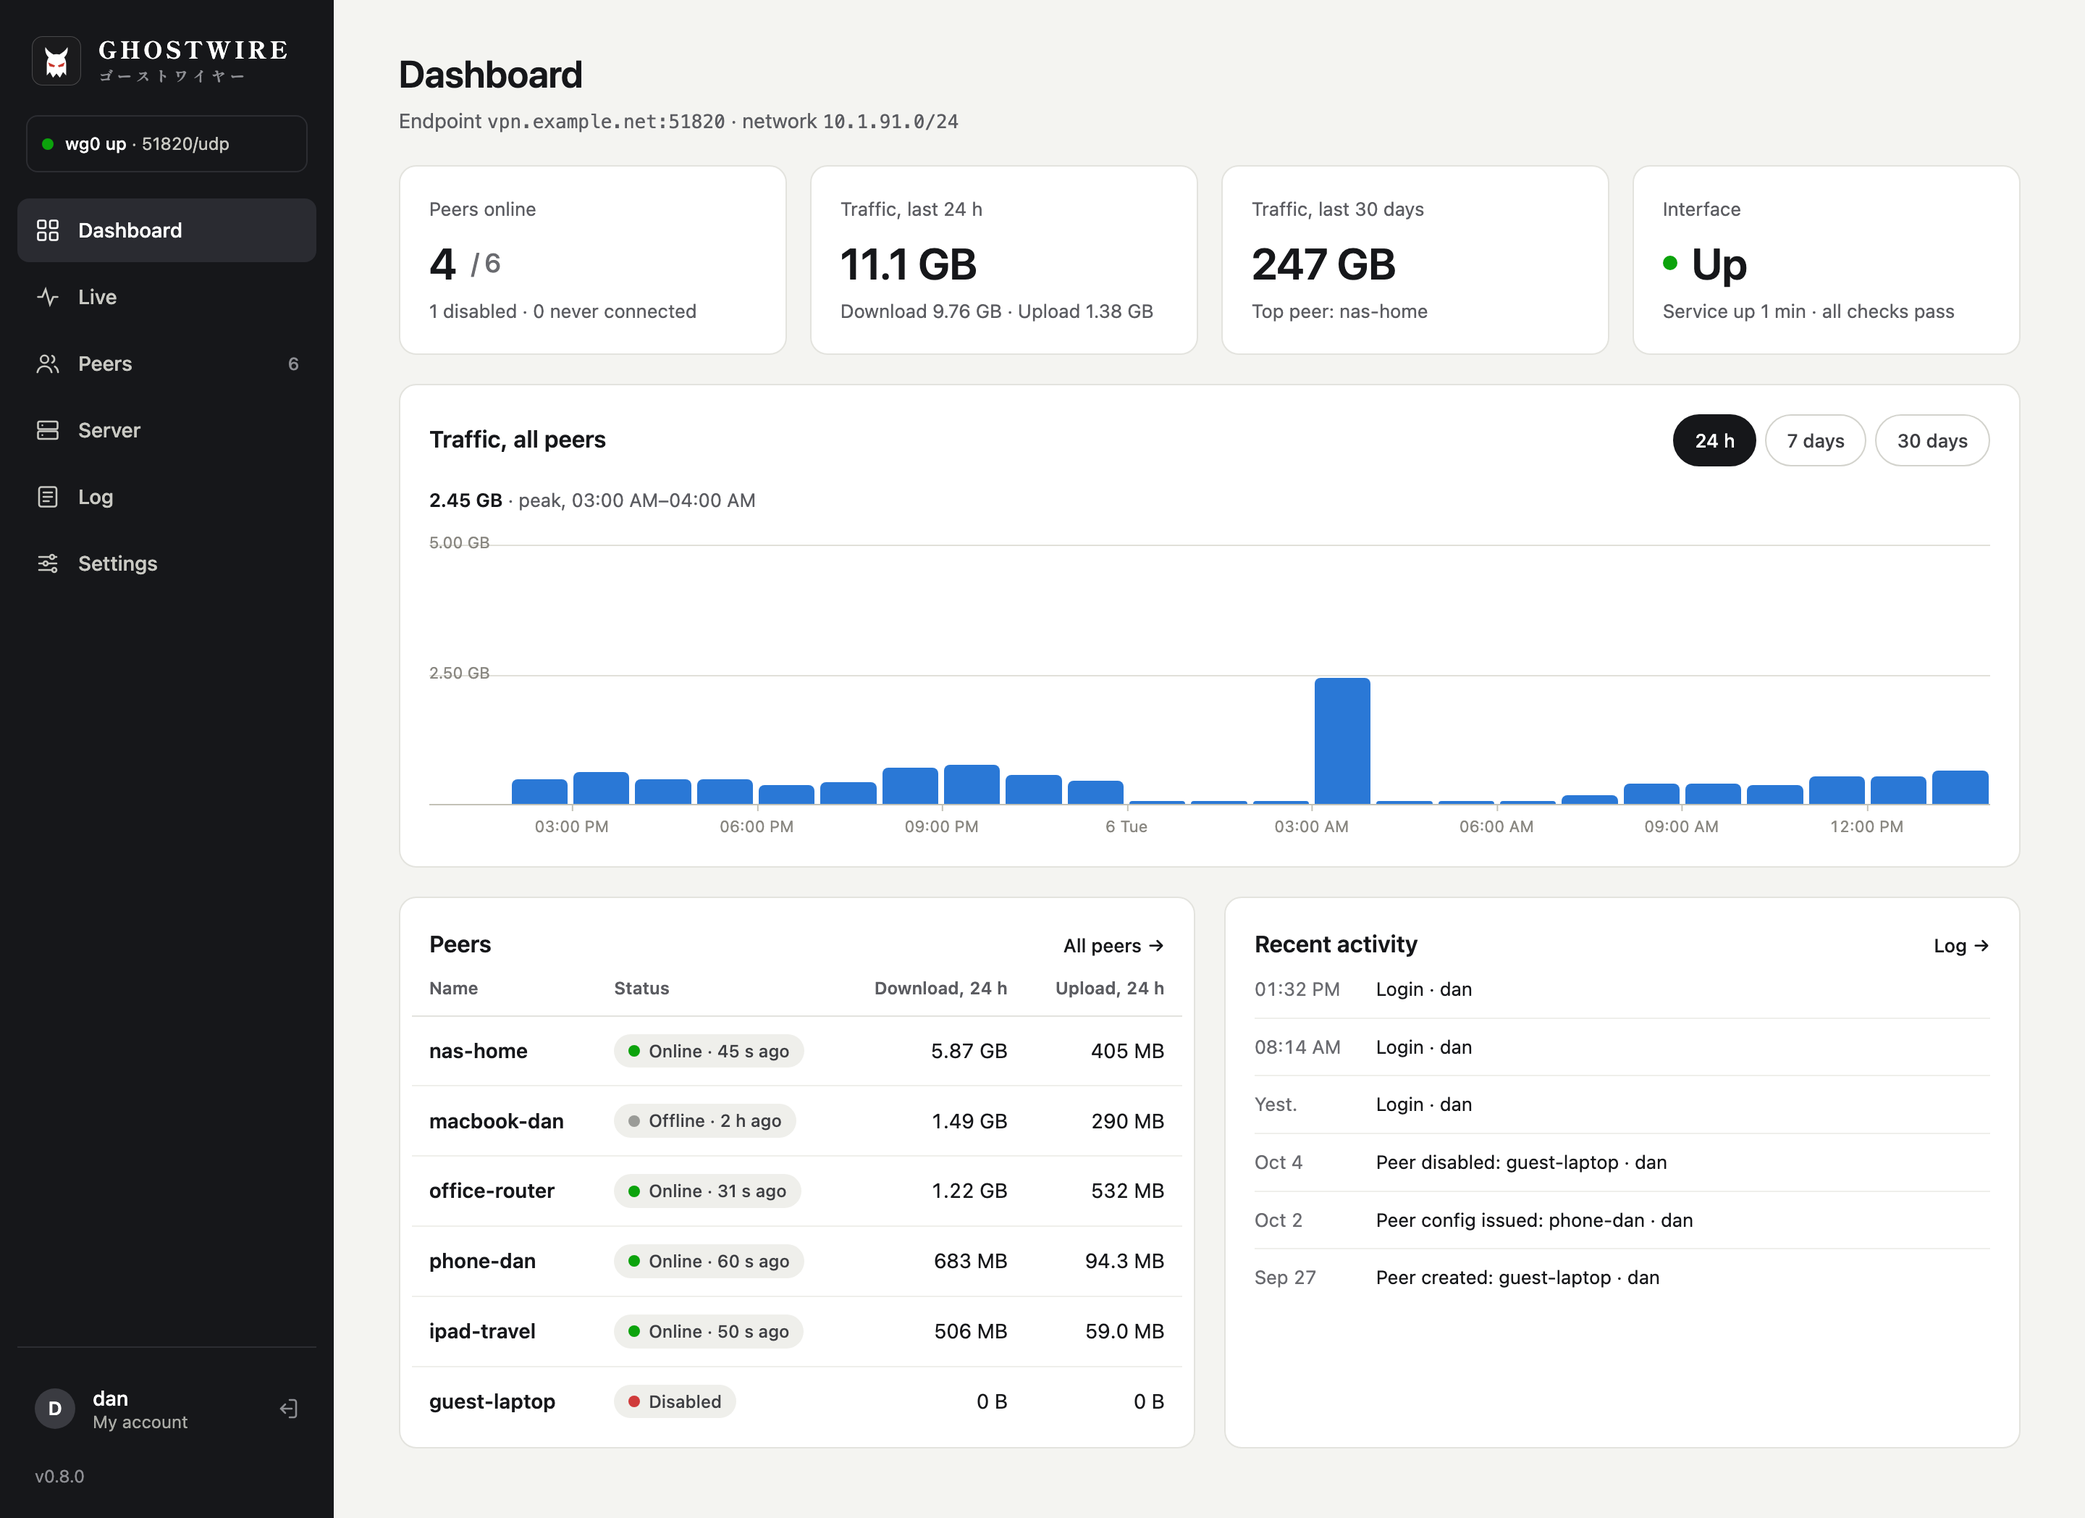
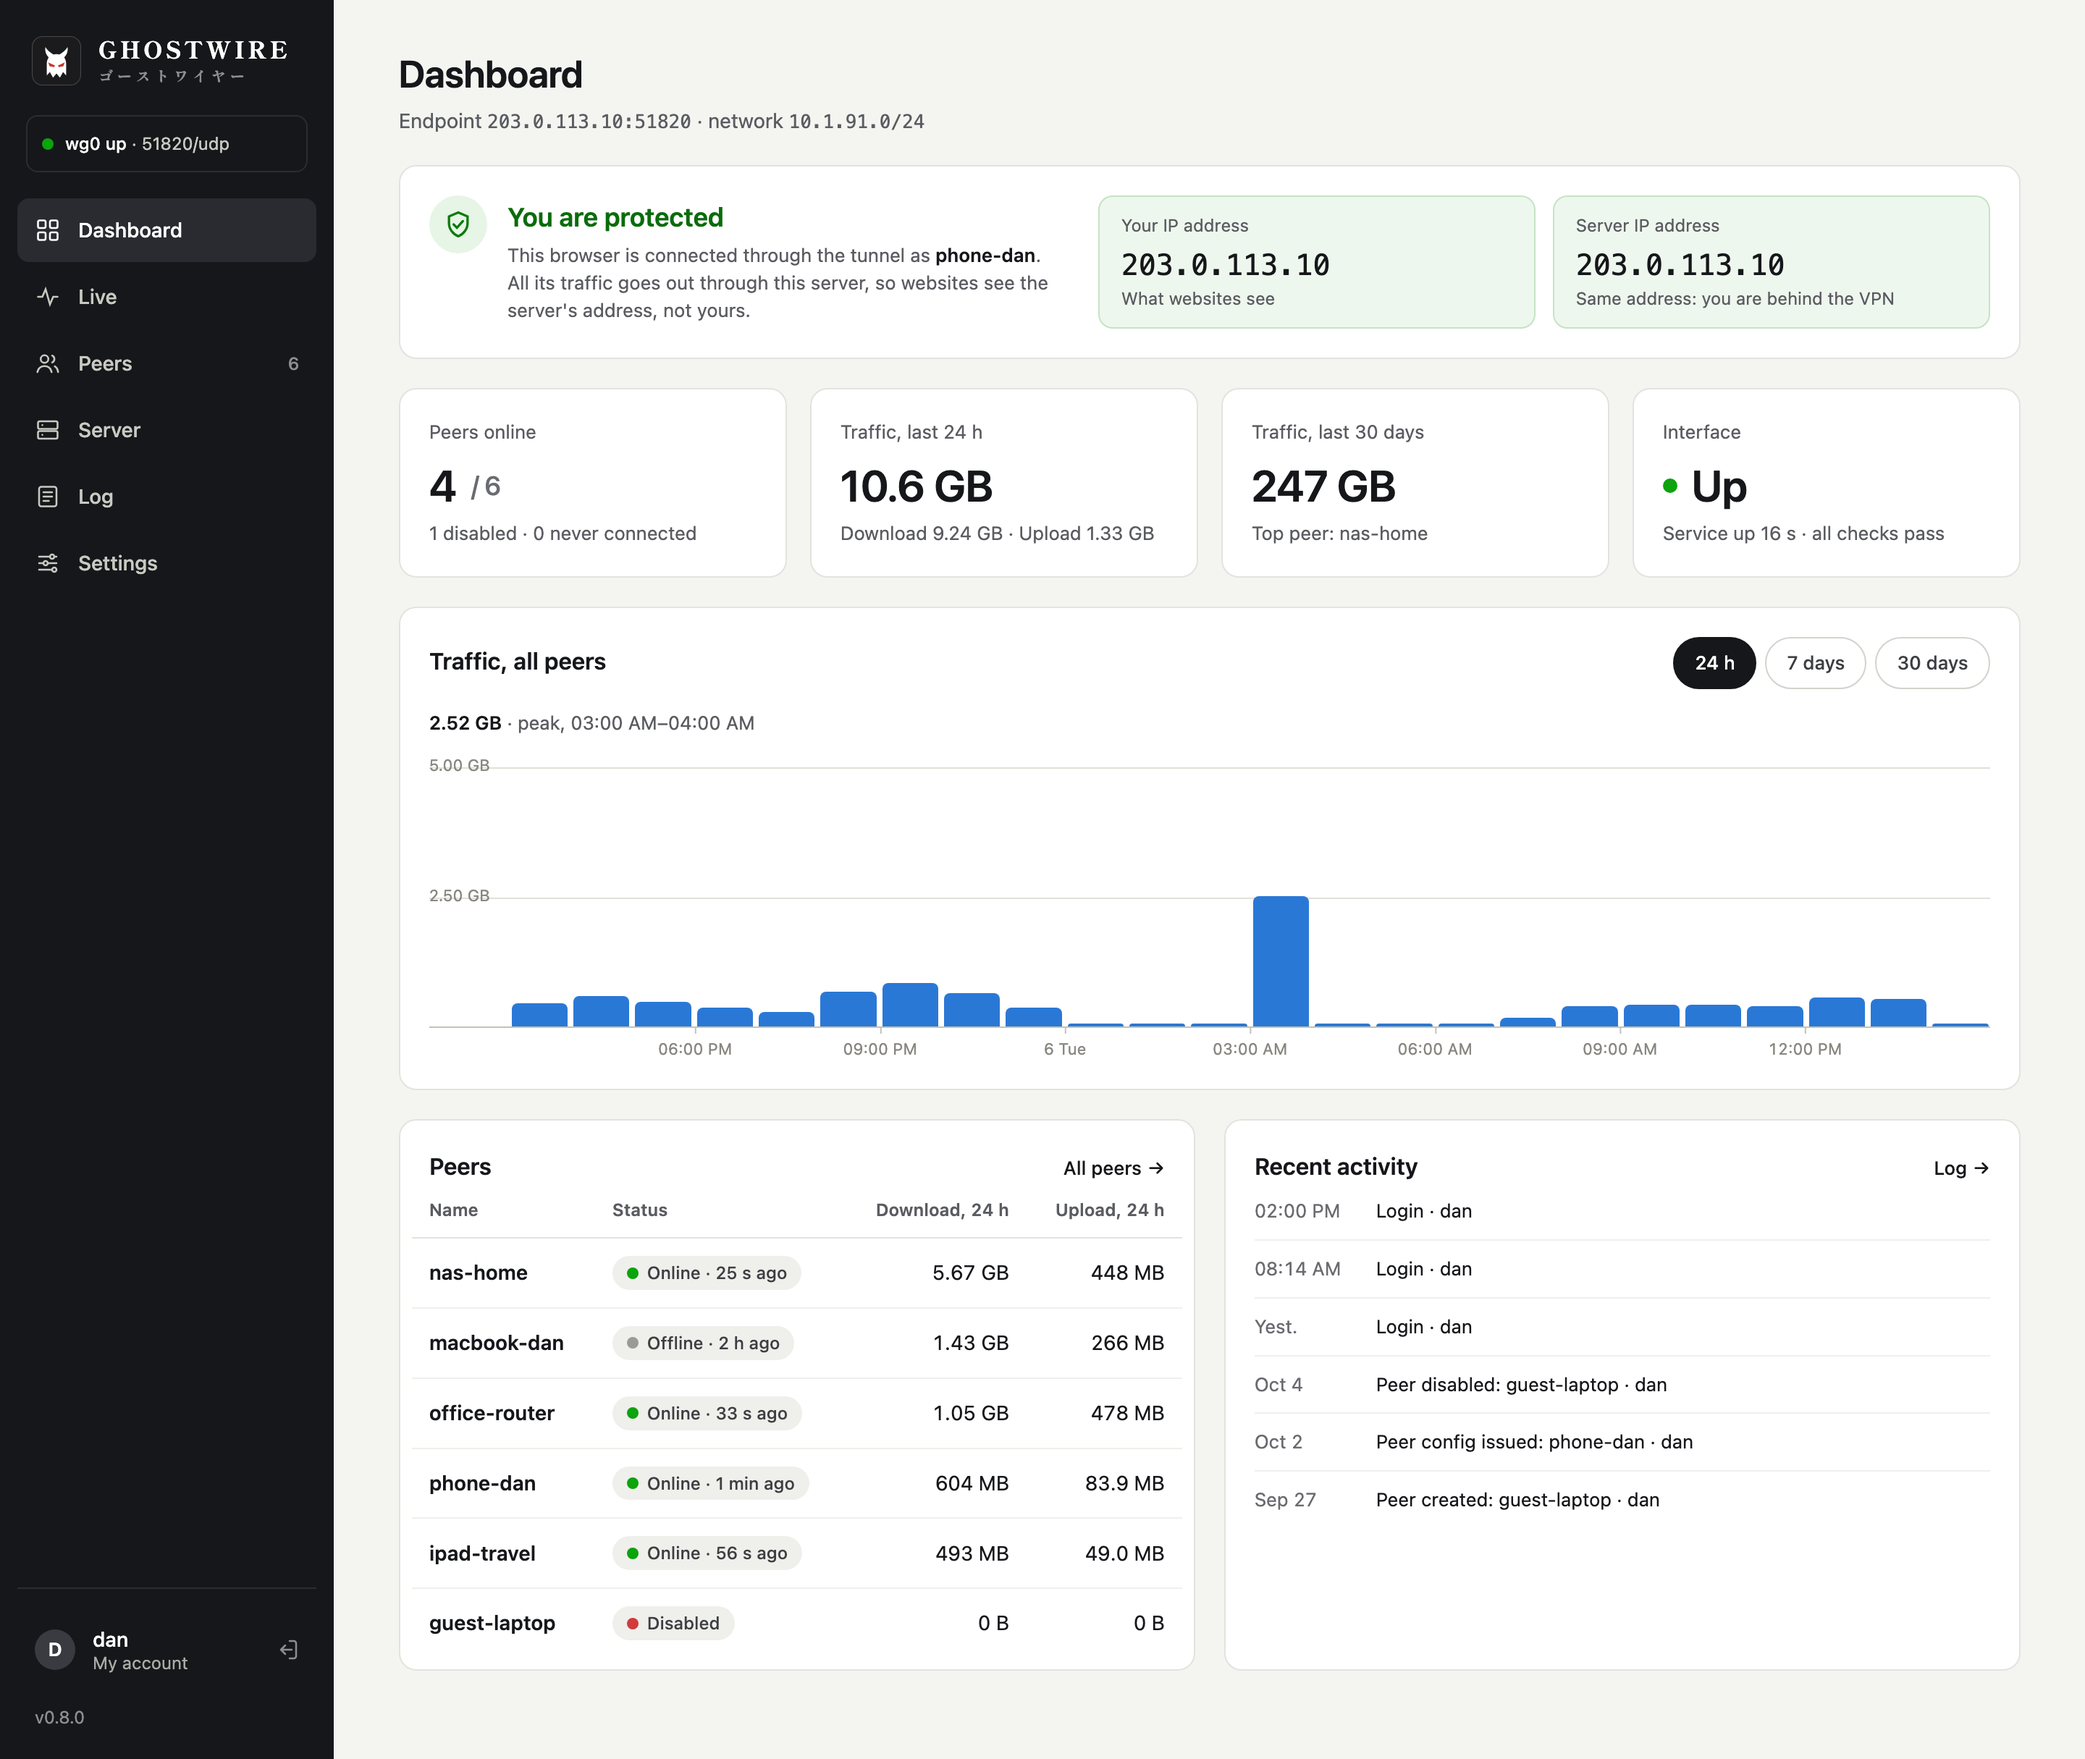
README: dashboard screenshot with the protection check

diff --git a/README.md b/README.md
@@ -37,7 +37,7 @@ questions and changes nothing until you confirm.
 > current configs and reconnect on their own, with nothing to re-scan or
 > re-send. See [Moving from pivpn](#moving-from-pivpn).
 
-![Dashboard with peers online, traffic of the last 24 hours, the peer list and recent activity](screenshots/dashboard.png)
+![Dashboard with the protection check, peers online, traffic of the last 24 hours, the peer list and recent activity](screenshots/dashboard.png)
 
 ## Features
 
